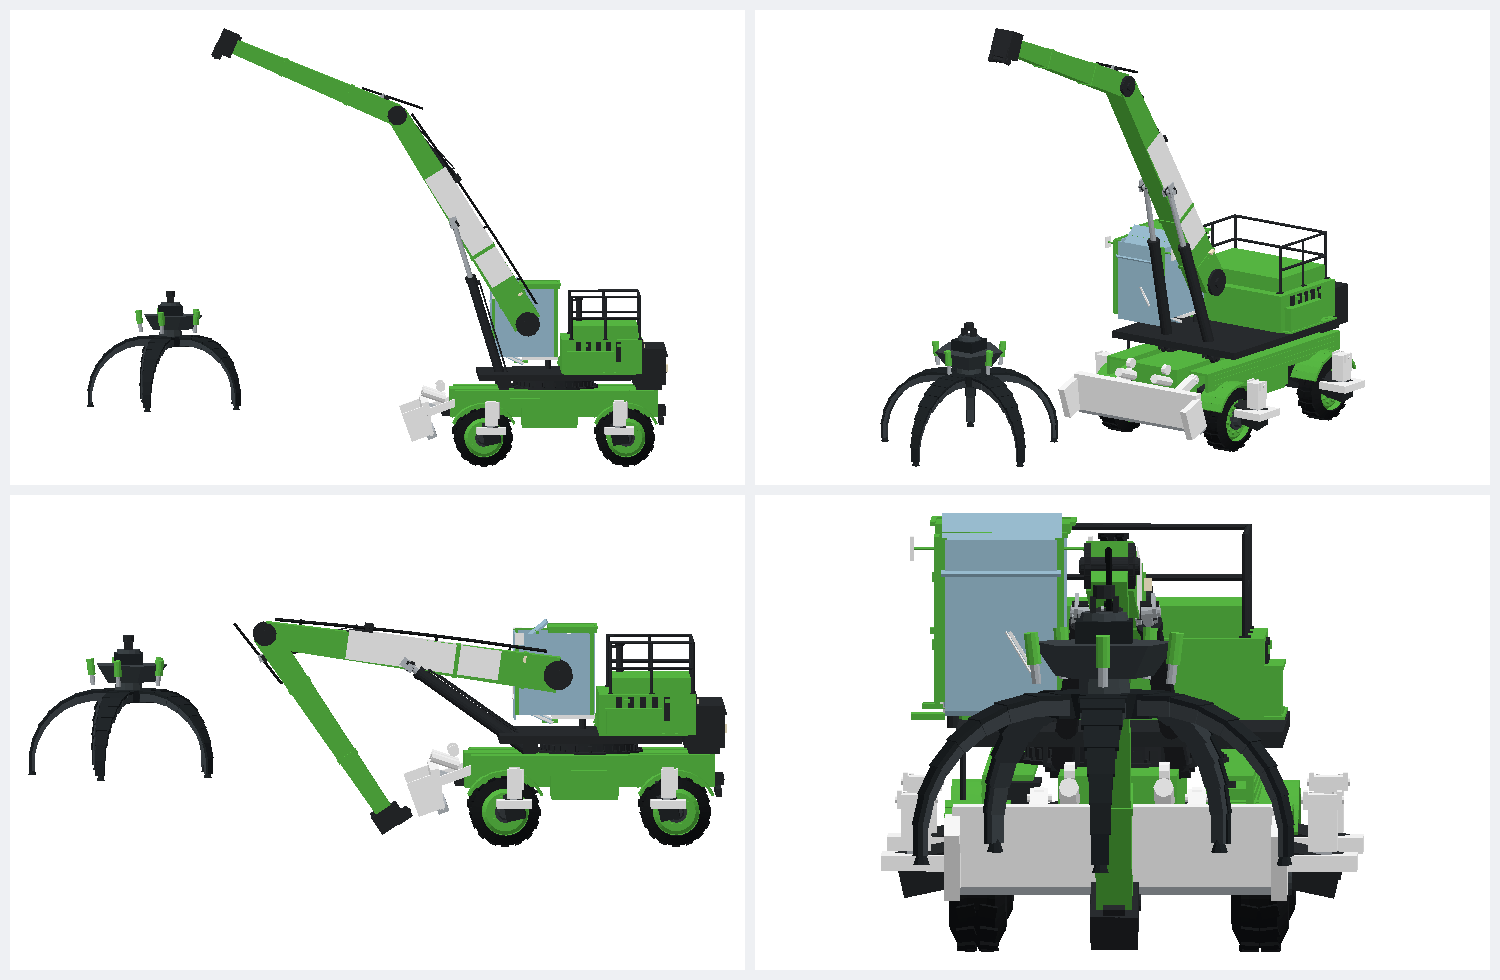
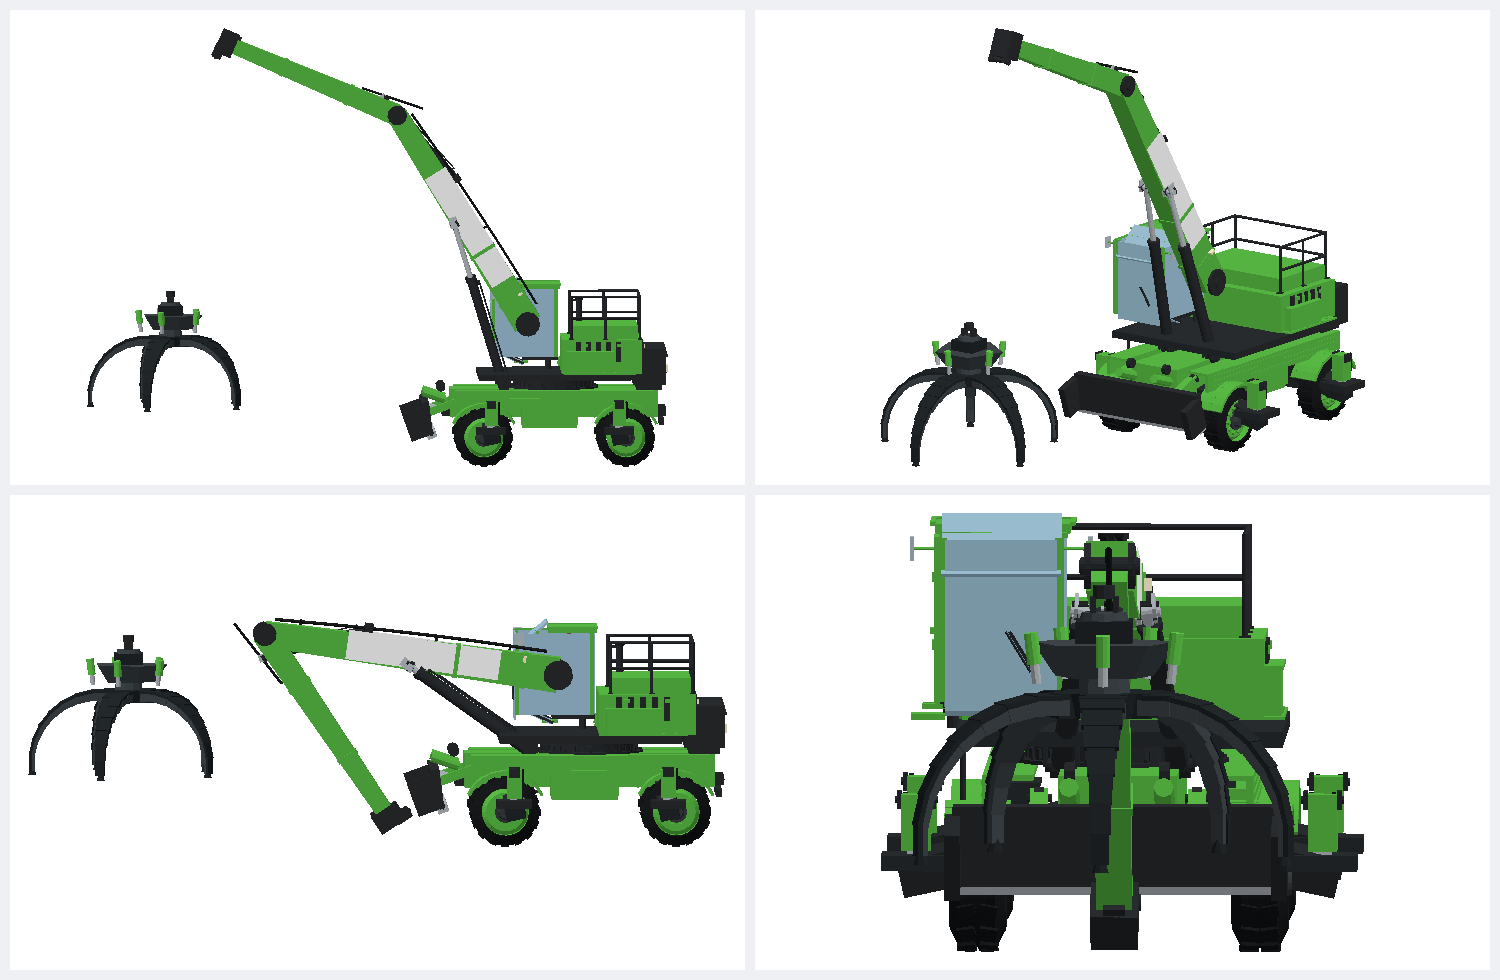
Riss-Werkzeug: bunte Netze farbtreu zeichnen
Seit dem Verschmelzen tragen Raeumschild, Pratzen, Kabine und Fahrer ihre
Farben an den Ecken; ihr Material ist absichtlich WEISS, weil Three Material-
und Eckfarbe multipliziert. Der Rasterer in tools/riss.ts liest nur
material.color — im Blatt vom 15.09.2026 war deshalb das halbe Fahrwerk weiss,
obwohl im Spiel alles richtig aussieht.

tools/baggerbild-png.ts zerlegt bunte Netze jetzt fuers Bild in ihre
Farbflaechen. Im Spiel bleibt jedes davon EIN Netz mit einem Zeichenruf.

diff --git a/v1/tools/baggerbild-png.ts b/v1/tools/baggerbild-png.ts
@@ -43,48 +43,65 @@ function stelle(boomGrad: number, stickGrad: number): void {
 }
 
 /**
- * Ausgewählte Meshes in eine Hilfsgruppe kopieren, in Weltlage.
+ * Ein Mesh in Weltlage kopieren — BUNTE Netze dabei in ihre Farbflächen
+ * zerlegen.
  *
- * BUNTE NETZE werden dabei in ihre Farbflächen zerlegt — nur fürs Bild. Der
- * Rasterer liest `material.color`, und das ist bei einem Netz mit Eckfarben
- * absichtlich WEISS (siehe `bauteile.ts`); ohne diese Zerlegung wäre die halbe
- * Maschine im Riss weiß. Im Spiel bleibt es EIN Netz mit einem Zeichenruf.
+ * Der Rasterer liest `material.color`, und das ist bei einem Netz mit
+ * Eckfarben absichtlich WEISS (siehe `bauteile.ts`): Three multipliziert
+ * Material- und Eckfarbe, und mit Weiß kommt die Eckfarbe heraus. Ohne diese
+ * Zerlegung wären Räumschild, Pratzen, Kabine und Fahrer im Riss weiß —
+ * genau das war im ersten Blatt vom 15.09.2026 zu sehen.
+ *
+ * Im Spiel bleibt jedes davon EIN Netz mit einem Zeichenruf; hier wird nur
+ * fürs Bild aufgeteilt.
  */
+function farbtreu(o: THREE.Mesh, ziel: THREE.Group): void {
+  o.updateWorldMatrix(true, false);
+  const geo = o.geometry as THREE.BufferGeometry;
+  const col = geo.getAttribute("color") as THREE.BufferAttribute | undefined;
+  if (!col) {
+    const k = new THREE.Mesh(geo, o.material);
+    k.applyMatrix4(o.matrixWorld);
+    ziel.add(k);
+    return;
+  }
+  const idx = geo.getIndex()!;
+  const gruppen = new Map<string, number[]>();
+  for (let i = 0; i < idx.count; i += 3) {
+    const a = idx.getX(i);
+    const s = `${col.getX(a).toFixed(4)},${col.getY(a).toFixed(4)},${col.getZ(a).toFixed(4)}`;
+    const liste = gruppen.get(s) ?? [];
+    liste.push(idx.getX(i), idx.getX(i + 1), idx.getX(i + 2));
+    gruppen.set(s, liste);
+  }
+  for (const [s, liste] of gruppen) {
+    const teil = new THREE.BufferGeometry();
+    teil.setAttribute("position", geo.getAttribute("position"));
+    teil.setAttribute("normal", geo.getAttribute("normal"));
+    teil.setIndex(liste);
+    const [r, g, b] = s.split(",").map(Number) as [number, number, number];
+    const c = new THREE.Color();
+    c.setRGB(r, g, b, THREE.LinearSRGBColorSpace);
+    const k = new THREE.Mesh(teil, new THREE.MeshStandardMaterial({ color: c }));
+    k.applyMatrix4(o.matrixWorld);
+    ziel.add(k);
+  }
+}
+
+/** Ausgewählte Meshes in eine Hilfsgruppe kopieren, in Weltlage. */
 function nur(namen: string[]): THREE.Object3D {
   const g = new THREE.Group();
-  for (const n of namen) {
-    const o = finde(n) as THREE.Mesh;
-    o.updateWorldMatrix(true, false);
-    const geo = o.geometry as THREE.BufferGeometry;
-    const col = geo.getAttribute("color") as THREE.BufferAttribute | undefined;
-    if (!col) {
-      const k = new THREE.Mesh(geo, o.material);
-      k.applyMatrix4(o.matrixWorld);
-      g.add(k);
-      continue;
-    }
-    const idx = geo.getIndex()!;
-    const gruppen = new Map<string, number[]>();
-    for (let i = 0; i < idx.count; i += 3) {
-      const a = idx.getX(i);
-      const s = `${col.getX(a).toFixed(4)},${col.getY(a).toFixed(4)},${col.getZ(a).toFixed(4)}`;
-      const liste = gruppen.get(s) ?? [];
-      liste.push(idx.getX(i), idx.getX(i + 1), idx.getX(i + 2));
-      gruppen.set(s, liste);
-    }
-    for (const [s, liste] of gruppen) {
-      const teil = new THREE.BufferGeometry();
-      teil.setAttribute("position", geo.getAttribute("position"));
-      teil.setAttribute("normal", geo.getAttribute("normal"));
-      teil.setIndex(liste);
-      const [r, gr, b] = s.split(",").map(Number) as [number, number, number];
-      const c = new THREE.Color();
-      c.setRGB(r, gr, b, THREE.LinearSRGBColorSpace);
-      const k = new THREE.Mesh(teil, new THREE.MeshStandardMaterial({ color: c }));
-      k.applyMatrix4(o.matrixWorld);
-      g.add(k);
-    }
-  }
+  for (const n of namen) farbtreu(finde(n) as THREE.Mesh, g);
+  return g;
+}
+
+/** Die ganze Maschine, farbtreu — ohne die Spinne, die hier nicht zur Sache gehört. */
+function ganzeMaschine(): THREE.Object3D {
+  const g = new THREE.Group();
+  scene.traverse((o) => {
+    if (!(o instanceof THREE.Mesh)) return;
+    farbtreu(o, g);
+  });
   return g;
 }
 
@@ -139,11 +156,11 @@ const SCHRAEG = new THREE.Vector3(0.75, 0.32, 1);
 // Blatt 1 — die ganze Maschine, Arbeits- und Ruhestellung
 const b1 = new Blatt(BREITE, HOEHE);
 stelle(58, -35);
-feld(b1, scene, SEITE, 10, 10, ZB, ZH);
-feld(b1, scene, SCHRAEG, 20 + ZB, 10, ZB, ZH);
+feld(b1, ganzeMaschine(), SEITE, 10, 10, ZB, ZH);
+feld(b1, ganzeMaschine(), SCHRAEG, 20 + ZB, 10, ZB, ZH);
 stelle(8, -132);
-feld(b1, scene, SEITE, 10, 20 + ZH, ZB, ZH);
-feld(b1, scene, VORN, 20 + ZB, 20 + ZH, ZB, ZH);
+feld(b1, ganzeMaschine(), SEITE, 10, 20 + ZH, ZB, ZH);
+feld(b1, ganzeMaschine(), VORN, 20 + ZB, 20 + ZH, ZB, ZH);
 b1.schreibe("docs/messungen/2026-09-15-bagger/01-maschine.png");
 
 // Blatt 2 — die drei Baugruppen einzeln
